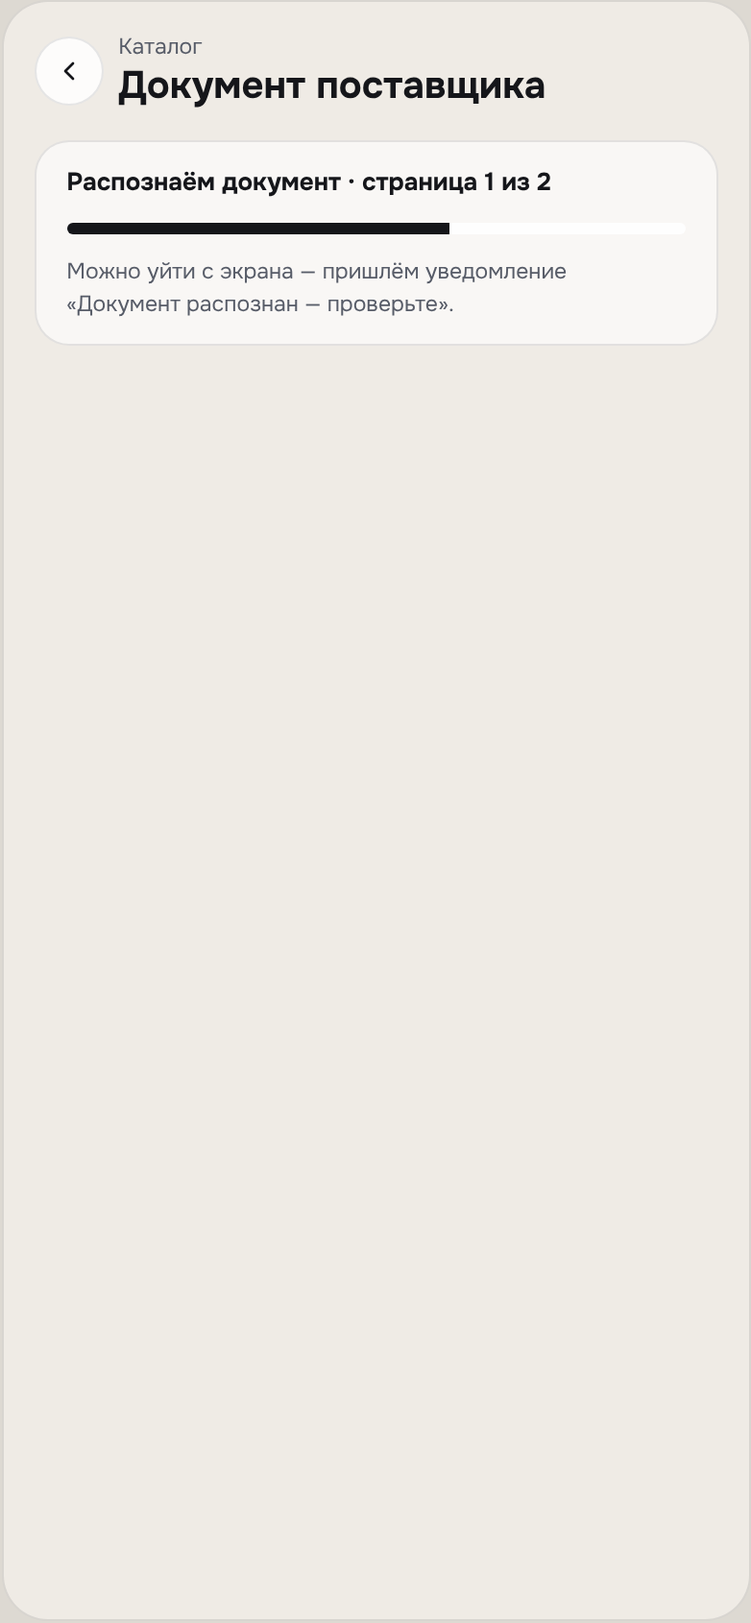
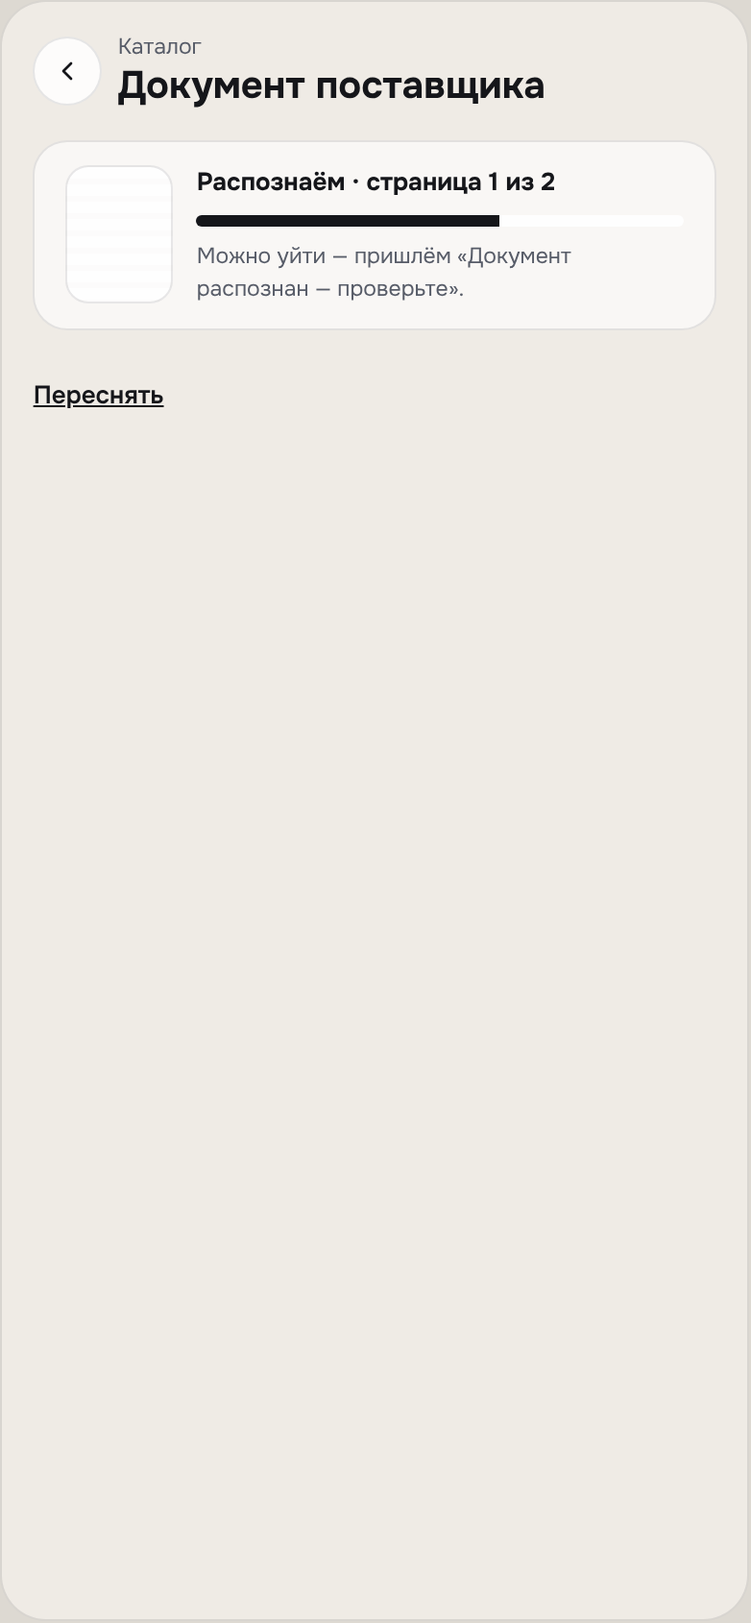
docs: спека 53 §8а.10 и прототип «Что сделать» ред. 2 — правки design-reviewer (панель входа, «Записать расход и 9 цен», «Вернуть», строки действий, миниатюра, 820)
Claude-Session: https://claude.ai/code/session_015CqH67uF9eBj6jT6KmJm7N

Changed region(s): [[0.0614, 0.0923, 0.7673, 0.2769], [0.1841, 0.0308, 0.2455, 0.0615], [0.5831, 0.0308, 0.6138, 0.0615]]

diff --git a/docs/prototypes/doc-actions.html b/docs/prototypes/doc-actions.html
@@ -148,6 +148,27 @@ h1{font-size:var(--fs-display);margin:0}
 .progress{height:6px;border-radius:9px;background:var(--surf2);overflow:hidden}
 .progress i{display:block;height:100%;width:62%;background:var(--ink)}
 .chev{color:var(--mut)}
+
+/* ред. 2 (design-reviewer): строки действий в одной карточке, миниатюра, ширина 820 */
+.acts{background:var(--surf);border:1px solid var(--bd);border-radius:var(--ri);overflow:hidden}
+.arow{display:grid;grid-template-columns:auto 1fr auto;gap:0 var(--s3);align-items:center;padding:var(--s2) 0 var(--s2) var(--s4);min-height:64px;cursor:pointer;border-top:1px solid var(--bd)}
+.arow:first-child{border-top:0}
+.arow[aria-checked="true"]{background:var(--surf2)}
+.arow > svg{width:20px;height:20px;color:var(--mut)}
+.arow .tx{display:grid;gap:2px}.arow .tx b{font-weight:600}.arow .tx span{font-size:var(--fs-caption);color:var(--mut)}
+.arow .end{display:flex;align-items:center}
+.arow .more{width:var(--hit);height:var(--hit);display:grid;place-items:center;color:var(--mut);background:none;border:0;cursor:pointer}
+.arow[aria-checked="true"] .box{border-color:var(--ink);background:var(--surf2)}
+.arow[aria-checked="true"] .box svg{opacity:1}
+.thumb{width:56px;height:72px;border-radius:var(--rf);border:1px solid var(--bd);background:repeating-linear-gradient(180deg,var(--surf2) 0 6px,var(--in) 6px 9px);flex:none}
+.docrow{display:flex;gap:var(--s3);align-items:center}
+.link{background:none;border:0;padding:0;min-height:var(--hit);font-weight:600;text-decoration:underline;cursor:pointer;color:var(--ink)}
+.panel .two{display:grid;grid-template-columns:1fr 1fr;gap:var(--s2)}
+.dev.w820{width:820px;max-width:none;height:700px}
+.stage{overflow-x:auto;max-width:100%}
+.w820 .body{justify-items:center}
+.w820 .colmax{width:100%;max-width:560px;display:grid;gap:var(--s3)}
+.lst{display:grid;gap:2px;font-size:var(--fs-caption);color:var(--mut)}
 </style>
 </head>
 <body>
@@ -174,7 +195,7 @@ h1{font-size:var(--fs-display);margin:0}
 <div class="wrap">
   <header>
     <h1>Документ поставщика → «Что сделать»</h1>
-    <p class="lede">Прототип спеки 53 §8а.10: один распознаватель чеков, прайсов и счетов поставщика. Снимок системным сканером документов (края, выравнивание, несколько страниц) или PDF/документ → распознавание → один экран «Что сделать». На нём можно выбрать несколько действий сразу; без «Готово» ничего не пишется. Данные вымышлены, числа тестовые.</p>
+    <p class="lede">Прототип спеки 53 §8а.10 (редакция 2 — после независимого дизайн-ревью). Один распознаватель чеков, прайсов и счетов поставщика: снимок системным сканером документов или PDF/документ → распознавание → «Что сделать» (несколько действий за раз) → возврат туда, откуда пришли, с тостом «Вернуть». Данные вымышлены, числа тестовые.</p>
   </header>
   <div class="bar">
     <span class="lbl">Тема</span>
@@ -184,101 +205,128 @@ h1{font-size:var(--fs-display);margin:0}
     </div>
   </div>
   <div class="cols">
-    <!-- 1. Вход -->
     <section class="col" aria-labelledby="s1">
       <h2 id="s1">1. Вход: «＋ Документ»</h2>
-      <p>Один вход из «Расходов», «Каталога», карточки поставщика и «Цен» модуля. Камера — системный сканер документов (iOS VisionKit, Android ML Kit Document Scanner): находит края, выравнивает, снимает несколько страниц.</p>
+      <p>Кнопки — в закреплённой панели (DS §8.9): «Снять документ» — главная, системный сканер документов (края, выравнивание, несколько страниц).</p>
       <div class="dev" id="scr-pick">
         <div class="top"><button class="iconbtn" type="button" aria-label="Назад"><svg class="i"><use href="#i-back"/></svg></button><div><div class="sub">Каталог</div><div class="ttl">Документ поставщика</div></div></div>
         <div class="body">
-          <div class="cap"><svg class="i"><use href="#i-receipt"/></svg><div><b style="color:var(--ink)">Чек, прайс или счёт поставщика</b><br>Распознаем строки и цены. Что с ними делать — выберете дальше.</div></div>
-          <div class="pickers">
-            <button class="btn primary full bar" type="button"><svg class="i"><use href="#i-camera"/></svg>Снять документ</button>
-            <button class="btn full bar" type="button"><svg class="i"><use href="#i-image"/></svg>Выбрать из фото</button>
-            <button class="btn full bar" type="button"><svg class="i"><use href="#i-file"/></svg>Выбрать файл (PDF, документ, таблица)</button>
-          </div>
-          <div class="note" style="color:var(--mut)"><svg class="i"><use href="#i-lock"/></svg><span>Снимок уходит на распознавание. Мы его не храним, сервис распознавания — не дольше 30 дней и не учится на нём. На чеке магазина могут быть ваше имя и последние цифры карты — мы их не сохраняем. Подробнее</span></div>
+          <div class="card docrow"><svg class="i" style="width:28px;height:28px;color:var(--mut)"><use href="#i-receipt"/></svg><div><b>Чек, прайс или счёт поставщика</b><div class="sub">Распознаем строки и цены, а что с ними делать — выберете дальше.</div></div></div>
+          <div class="note" style="color:var(--mut)"><svg class="i"><use href="#i-lock"/></svg><span>Мы снимок не храним, сервис распознавания — до 30 дней. <button class="link" type="button">Что уходит на распознавание</button></span></div>
+        </div>
+        <div class="panel">
+          <button class="btn primary full bar" type="button"><svg class="i"><use href="#i-camera"/></svg>Снять документ</button>
+          <div class="two"><button class="btn bar" type="button"><svg class="i"><use href="#i-image"/></svg>Фото</button><button class="btn bar" type="button"><svg class="i"><use href="#i-file"/></svg>Файл</button></div>
         </div>
       </div>
     </section>
-    <!-- 2. Распознавание -->
     <section class="col" aria-labelledby="s2">
       <h2 id="s2">2. Распознавание</h2>
-      <p>Около 5 секунд на страницу. Без сети снимок ждёт («Документ ждёт сети · 1»), распознаётся сам, когда сеть вернётся.</p>
+      <p>Миниатюра снятого и «Переснять». Без сети — «Документ ждёт сети · 1», распознается сам.</p>
       <div class="dev" id="scr-wait">
         <div class="top"><button class="iconbtn" type="button" aria-label="Назад"><svg class="i"><use href="#i-back"/></svg></button><div><div class="sub">Каталог</div><div class="ttl">Документ поставщика</div></div></div>
         <div class="body">
-          <div class="card" style="display:grid;gap:var(--s3)">
-            <b>Распознаём документ · страница 1 из 2</b>
-            <div class="progress" role="progressbar" aria-valuenow="62" aria-valuemin="0" aria-valuemax="100"><i></i></div>
-            <div class="sub">Можно уйти с экрана — пришлём уведомление «Документ распознан — проверьте».</div>
-          </div>
+          <div class="card docrow"><div class="thumb" role="img" aria-label="Снимок, 2 страницы"></div><div style="display:grid;gap:var(--s2);flex:1"><b>Распознаём · страница 1 из 2</b><div class="progress" role="progressbar" aria-valuenow="62" aria-valuemin="0" aria-valuemax="100"><i></i></div><div class="sub">Можно уйти — пришлём «Документ распознан — проверьте».</div></div></div>
+          <button class="link" type="button" style="justify-self:start">Переснять</button>
         </div>
       </div>
     </section>
-    <!-- 3. Что сделать -->
     <section class="col" aria-labelledby="s3">
       <h2 id="s3">3. «Что сделать»</h2>
-      <p>Шапка документа, затем действия-флажки. Предлагаются только подходящие: в чеке АЗС нет «Цен» и «Позиций». Цифры кнопки «Готово» называют, что будет записано.</p>
+      <p>Действия — строками одной карточки (меню выбора, правило 12). Строки с деталями — «›». Кнопка называет, что запишет; ничего не отмечено — подсказка.</p>
       <div class="dev" id="scr-act">
         <div class="top"><button class="iconbtn" type="button" aria-label="Назад"><svg class="i"><use href="#i-back"/></svg></button><div><div class="sub">Документ поставщика</div><div class="ttl">Что сделать</div></div></div>
         <div class="body">
-          <div class="card doc">
-            <div class="row"><b>ABC Supply</b><span class="sub">Чек · 11/14/2026</span></div>
-            <div class="row"><span class="sub">14 строк · налог $31.20</span><b>Итого $412.80</b></div>
-          </div>
-          <div class="list" id="acts"></div>
+          <div class="card docrow"><div class="thumb" role="img" aria-label="Снимок чека — открыть крупно"></div><div class="doc" style="flex:1"><div class="row"><b>ABC Supply</b><span class="sub">Чек · 11/14/2026</span></div><div class="sub">есть в справочнике · 14 строк · налог $31.20</div><div class="row"><span></span><b>Итого $412.80</b></div></div></div>
+          <div class="acts" id="acts"></div>
         </div>
         <div class="panel">
-          <div class="sum" id="act-sum">Будет записано: расход, 9 цен</div>
-          <button class="btn primary full bar" type="button" id="act-go">Готово</button>
+          <div class="note warn" id="act-hint" hidden><svg class="i"><use href="#i-alert"/></svg><span>Отметьте, что сделать с документом</span></div>
+          <button class="btn primary full bar" type="button" id="act-go">Записать расход и 9 цен</button>
+        </div>
+        <div class="scrim" id="it-scrim" hidden></div>
+        <div class="sheet" id="it-sheet" role="dialog" aria-label="Позиции в каталог" hidden>
+          <div class="grab"></div>
+          <div class="sh-head"><div class="ttl" style="font-size:var(--fs-heading)">Добавить в каталог</div><button class="iconbtn" type="button" aria-label="Закрыть" onclick="closeItems()"><svg class="i"><use href="#i-close"/></svg></button></div>
+          <div class="acts" id="items"></div>
+          <div class="fld"><label for="imk">Наценка для новых, %</label><input class="input" id="imk" inputmode="decimal" value="30"></div>
+          <button class="btn primary full bar" type="button" onclick="closeItems()">Выбрать</button>
         </div>
       </div>
     </section>
-    <!-- 4. Итог -->
     <section class="col" aria-labelledby="s4">
-      <h2 id="s4">4. Итог</h2>
-      <p>Одна операция по документу: поставщик → позиции → цены → расход. Один тост «Отменить» на всё. Позже — «Отменить всё по документу» в истории (30 дней).</p>
+      <h2 id="s4">4. После «Записать»</h2>
+      <p>Возврат туда, откуда пришли (здесь — «Каталог»), и один тост на всё: «Записано: расход, 9 цен · Вернуть». Позже — «Отменить всё по документу» в истории.</p>
       <div class="dev" id="scr-done">
-        <div class="top"><button class="iconbtn" type="button" aria-label="Назад"><svg class="i"><use href="#i-back"/></svg></button><div><div class="sub">Документ поставщика</div><div class="ttl">Готово</div></div></div>
+        <div class="top"><div><div class="ttl">Каталог</div></div></div>
         <div class="body">
-          <div class="card" style="display:grid;gap:var(--s2)">
-            <div class="done-h"><svg class="i"><use href="#i-check"/></svg><div class="ttl" style="font-size:var(--fs-heading)">Записано</div></div>
-            <div>Расход $412.80 · ABC Supply</div>
-            <div>Цены обновлены: 9</div>
-          </div>
-          <button class="btn full bar" type="button">Открыть расход</button>
+          <div class="pcard"><div><b>Гаттер · 5″ · K-style · белый</b></div><div class="v">$3.12 / ft</div><svg class="i"><use href="#i-chev"/></svg></div>
+          <div class="pcard"><div><b>Водосток · 2×3 · белый</b></div><div class="v">$2.57 / ft</div><svg class="i"><use href="#i-chev"/></svg></div>
+          <div class="pcard"><div><b>Крюк · скрытый · 5″</b></div><div class="v">$1.37 / ea</div><svg class="i"><use href="#i-chev"/></svg></div>
         </div>
-        <div class="toast" role="status"><span>Записано: расход, 9 цен</span><button type="button"><svg class="ring" viewBox="0 0 20 20"><circle cx="10" cy="10" r="8" fill="none" stroke="currentColor" stroke-width="2" stroke-dasharray="50.3" stroke-dashoffset="18" transform="rotate(-90 10 10)"/></svg>Отменить</button></div>
-        <div class="panel"><button class="btn primary full bar" type="button">Готово</button></div>
+        <div class="toast" role="status"><span>Записано: расход, 9 цен</span><button type="button"><svg class="ring" viewBox="0 0 20 20"><circle cx="10" cy="10" r="8" fill="none" stroke="currentColor" stroke-width="2" stroke-dasharray="50.3" stroke-dashoffset="18" transform="rotate(-90 10 10)"/></svg>Вернуть</button></div>
       </div>
     </section>
   </div>
+  <section class="col" aria-labelledby="s5">
+    <h2 id="s5">5. «Что сделать» на 820</h2>
+    <p>Колонка формы до formMax по центру; кнопка — в конце колонки, не в панели (DS §8.9: от 820 панели нет).</p>
+    <div class="stage"><div class="dev w820" id="scr-act820">
+      <div class="top"><button class="iconbtn" type="button" aria-label="Назад"><svg class="i"><use href="#i-back"/></svg></button><div><div class="sub">Документ поставщика</div><div class="ttl">Что сделать</div></div></div>
+      <div class="body"><div class="colmax">
+        <div class="card docrow"><div class="thumb"></div><div class="doc" style="flex:1"><div class="row"><b>ABC Supply</b><span class="sub">Чек · 11/14/2026</span></div><div class="sub">есть в справочнике · 14 строк · налог $31.20</div><div class="row"><span></span><b>Итого $412.80</b></div></div></div>
+        <div class="acts" id="acts820"></div>
+        <div class="sum" style="font-weight:600">Будет записано: расход, 9 цен</div>
+        <button class="btn primary bar" type="button" style="justify-self:end;padding:0 var(--s6)">Записать расход и 9 цен</button>
+      </div></div>
+    </div></div>
+  </section>
 </div>
 <script>
 const ACTS = [
   { id: "exp", icon: "receipt", title: "Записать расход", sub: "$412.80 · материалы · работа «Smith — гаттеры»", on: true },
-  { id: "price", icon: "tag", title: "Обновить цены поставщика", sub: "9 совпали с каталогом · 2 «Проверьте» — откроется «было → стало»", on: true, n: 9 },
-  { id: "sup", icon: "truck", title: "Добавить поставщика", sub: "«ABC Supply» уже есть в справочнике", disabled: true },
-  { id: "items", icon: "box", title: "Добавить позиции в каталог", sub: "3 строки нет в каталоге — выберите, какие", on: false, n: 0 },
+  { id: "price", icon: "tag", title: "Обновить цены поставщика", sub: "9 совпали · 2 «Проверьте»", on: true, more: true },
+  { id: "items", icon: "box", title: "Добавить позиции в каталог", sub: "Нет в каталоге: 3 · выбрано 0", on: false, more: true },
 ];
+const ITEMS = [{ n: "Leaf guard mesh 4'", p: "$6.10 / ea", on: false }, { n: "Gutter sealant 10oz", p: "$7.40 / ea", on: false }, { n: "Rivet #42 painted, bag 100", p: "$5.63 / bag", on: false }];
 const ic = (n) => `<svg class="i"><use href="#i-${n}"/></svg>`;
-function render() {
-  const box = document.getElementById("acts");
-  box.innerHTML = ACTS.map((a) => `<div class="act" role="checkbox" tabindex="0" aria-checked="${!!a.on}" ${a.disabled ? 'aria-disabled="true"' : ""} data-id="${a.id}">
-    ${ic(a.icon)}<div class="tx"><b>${a.title}</b><span>${a.sub}</span></div>
-    <div class="ck"><span class="box">${a.disabled ? "" : ic("check")}</span></div></div>`).join("");
-  box.querySelectorAll(".act").forEach((el) => {
-    const a = ACTS.find((x) => x.id === el.dataset.id);
-    const t = () => { if (a.disabled) return; a.on = !a.on; render(); };
-    el.onclick = t; el.onkeydown = (e) => { if (e.key === " " || e.key === "Enter") { e.preventDefault(); t(); } };
-  });
+const rowHtml = (a) => `<div class="arow" role="checkbox" tabindex="0" aria-checked="${!!a.on}" data-id="${a.id}">
+  ${ic(a.icon)}<div class="tx"><b>${a.title}</b><span>${a.sub}</span></div>
+  <div class="end">${a.more ? `<button class="more" type="button" aria-label="Подробнее: ${a.title}" data-more="${a.id}">${ic("chev")}</button>` : ""}<div class="ck"><span class="box">${ic("check")}</span></div></div></div>`;
+function label() {
+  const n = ITEMS.filter((x) => x.on).length;
   const parts = [];
   if (ACTS[0].on) parts.push("расход");
   if (ACTS[1].on) parts.push("9 цен");
-  if (ACTS[3].on) parts.push("позиции — выбрать");
-  document.getElementById("act-sum").textContent = parts.length ? "Будет записано: " + parts.join(", ") : "Выберите, что сделать";
+  if (ACTS[2].on && n) parts.push(n + " позиции");
+  return parts;
 }
+function render() {
+  ACTS[2].sub = `Нет в каталоге: 3 · выбрано ${ITEMS.filter((x) => x.on).length}`;
+  for (const id of ["acts", "acts820"]) {
+    const box = document.getElementById(id);
+    box.innerHTML = ACTS.map(rowHtml).join("");
+    box.querySelectorAll(".arow").forEach((el) => {
+      const a = ACTS.find((x) => x.id === el.dataset.id);
+      el.onclick = (e) => {
+        if (e.target.closest("[data-more]")) return a.id === "items" ? openItems() : null;
+        if (a.id === "items" && !a.on && !ITEMS.some((x) => x.on)) return openItems();
+        a.on = !a.on; render();
+      };
+    });
+  }
+  const parts = label();
+  const go = document.getElementById("act-go");
+  go.textContent = parts.length ? "Записать " + parts.join(" и ").replace(" и ", parts.length > 2 ? ", " : " и ") : "Записать";
+  go.onclick = () => { document.getElementById("act-hint").hidden = !!parts.length; };
+}
+function openItems() {
+  document.getElementById("it-scrim").hidden = false; document.getElementById("it-sheet").hidden = false;
+  const box = document.getElementById("items");
+  box.innerHTML = ITEMS.map((x, i) => `<div class="arow" role="checkbox" tabindex="0" aria-checked="${x.on}" data-i="${i}"><span></span><div class="tx"><b>${x.n}</b><span>${x.p}</span></div><div class="end"><div class="ck"><span class="box">${ic("check")}</span></div></div></div>`).join("");
+  box.querySelectorAll(".arow").forEach((el) => el.onclick = () => { const x = ITEMS[+el.dataset.i]; x.on = !x.on; openItems(); });
+}
+function closeItems() { document.getElementById("it-scrim").hidden = true; document.getElementById("it-sheet").hidden = true; ACTS[2].on = ITEMS.some((x) => x.on); render(); }
 document.querySelectorAll("[data-theme-btn]").forEach((b) => b.onclick = () => {
   document.documentElement.dataset.theme = b.dataset.themeBtn;
   document.querySelectorAll("[data-theme-btn]").forEach((x) => x.setAttribute("aria-pressed", x === b));

diff --git a/docs/specs/53-price-update.md b/docs/specs/53-price-update.md
@@ -359,27 +359,23 @@
 - В Expo встроенного сканера документов нет — нужен нативный модуль. Это новая сборка в магазин (правило 28г) и зависимость по правилу 17. Выбор модуля — в 53-4; до новой сборки — обычная камера и выбор фото (`expo-image-picker`), сканер — задачей «после сборки».
 - Экран результата делаем как у Expensify и Ramp (снимок чека → карточка с найденным продавцом и суммой → действия) и как в «Почте» iOS (одно подтверждение несколькими действиями). Наше отличие — **несколько действий за раз** (расход + цены + поставщик + позиции): у Expensify только расход, у Jobber/HCP распознавания прайса нет совсем (§11).
 
-**Порядок блоков** (390):
-1. Шапка «Что сделать».
-2. Карточка документа: поставщик, вид («Чек», «Прайс», «Счёт»), дата, число строк, налог, итог.
-3. Действия — карточки-флажки (DS А4: флажок справа, «Заливка» у отмеченной). Каждая говорит, что именно будет записано: «$412.80 · материалы · работа „Smith — гаттеры“», «9 совпали с каталогом · 2 «Проверьте» — откроется «было → стало»».
-4. Закреплённая панель: строка «Будет записано: расход, 9 цен» и `primary` «Готово».
+**Порядок блоков** (390; редакция 2 — после design-reviewer):
+- **Вход «＋ Документ»:** карточка «Чек, прайс или счёт поставщика» и строка приватности со ссылкой «Что уходит на распознавание». Кнопки — в закреплённой панели (DS §8.9): `primary` «Снять документ» на всю ширину, под ней «Фото» и «Файл».
+- **Распознавание:** миниатюра снимка (нажатие — крупно), «Распознаём · страница 1 из 2», полоса хода, «Переснять».
+- **«Что сделать»:**
+  1. Карточка документа: миниатюра, поставщик и «есть в справочнике» (действия «Добавить поставщика» тогда нет; оно появляется только для нового поставщика), вид, дата, строки, налог, итог.
+  2. **Действия — строками одной карточки** (меню выбора, правило 12; DS А4: флажок справа, отмеченная строка — «Заливка»). У строк с деталями («Обновить цены», «Добавить позиции») — «›»: открывает «было → стало» §7 или шторку выбора позиций с полем «Наценка для новых, %». «Добавить позиции» без выбранных строк сразу открывает выбор.
+  3. Закреплённая панель: `primary` называет, что запишет — **«Записать расход и 9 цен»** (глагол + объект, DS Б1). Ничего не отмечено — кнопка активна и показывает `StatusNote` «Отметьте, что сделать с документом» (DS §11 п.3).
+- **После «Записать»:** возврат туда, откуда пришли (каталог, расходы, поставщик, «Цены» модуля), и **один тост «Записано: расход, 9 цен · Вернуть»** (DS Б8, словарь §4.4). Отдельного экрана итога нет. Позже — «Отменить всё по документу» в истории загрузок.
+- **820 / 1280:** колонка формы до `formMax` по центру; кнопка — в конце колонки, панели нет (DS §8.9). Снимок `53-doc-act-820-light.png`.
 
 **По умолчанию отмечено:**
 - «Записать расход» — если это чек или счёт и человек может записывать расходы;
 - «Обновить цены» — если есть совпавшие строки и человек — owner / admin / office с правом себестоимости.
 
-Остальные действия не отмечены. Неподходящие — «Поставщик уже в справочнике», у чека АЗС «Цены» и «Позиции» — не скрываются, а показываются неактивными с причиной. Человек видит, почему их нет.
+Остальное не отмечено. Действие, которое к документу не подходит (у чека АЗС «Цены» и «Позиции»), не показывается. Почему — сказано подписью карточки документа («Чек без товаров каталога»), а не выключенным флажком.
 
-**Нажатие на действие с деталями** («Обновить цены», «Добавить позиции») открывает его экран:
-- «было → стало» §7 — с галочками строк;
-- выбор строк для каталога — с наценкой.
-
-Возврат — к «Что сделать» с числом выбранного.
-
-**Готово** — одна операция по документу (§8а.7), тост «Записано: расход, 9 цен · Отменить», экран итога со ссылками «Открыть расход» и «Открыть загрузку цен».
-
-**Нажатий** с чека до записи расхода и цен: «＋ Документ» → «Снять документ» → снимок → «Готово» = **4** (у Expensify до расхода — 3, но без цен).
+**Нажатий** с чека до записи расхода и цен: «＋ Документ» → «Снять документ» → снимок → «Записать расход и 9 цен» = **4** (у Expensify до расхода — 3, но без цен).
 
 **Тексты** (i18n, `doc.*`, RU / EN / ES; без «не удалось»). Пример блока приватности на входе: «Снимок уходит на распознавание. Мы его не храним, сервис распознавания — не дольше 30 дней и не учится на нём. На чеке магазина могут быть ваше имя и последние цифры карты — мы их не сохраняем. Подробнее». Полный текст — в согласии (спека 43 §8.2, §8а.9а).
 
